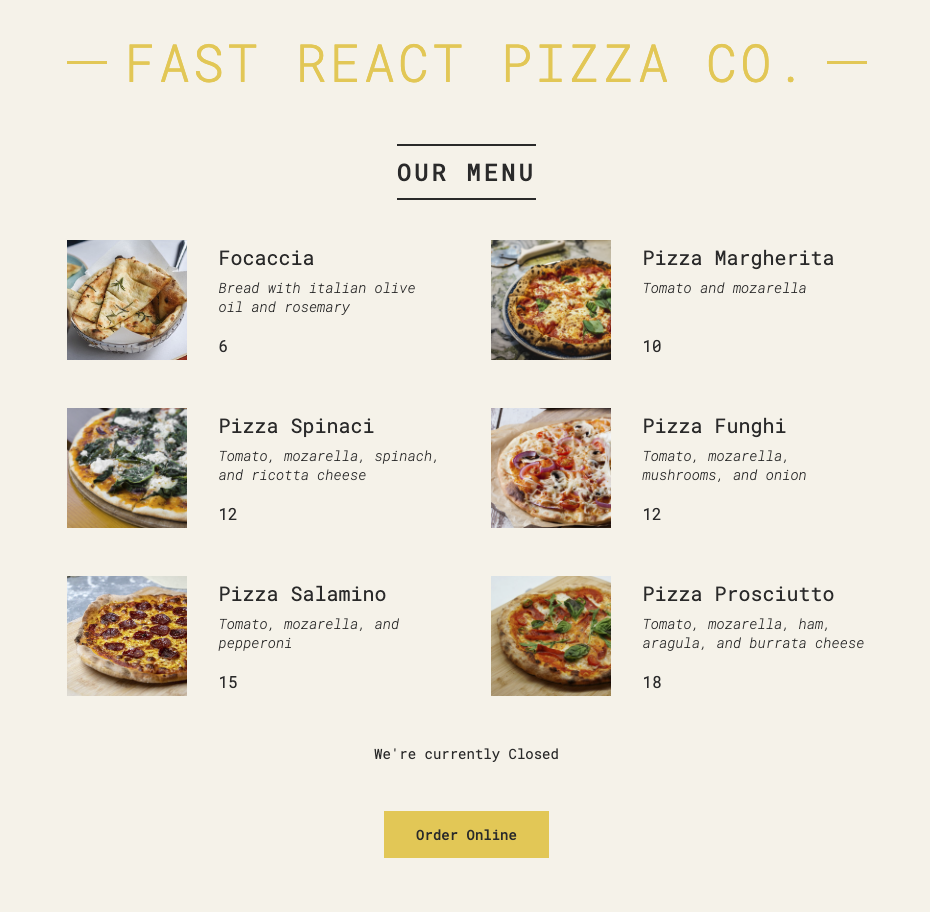
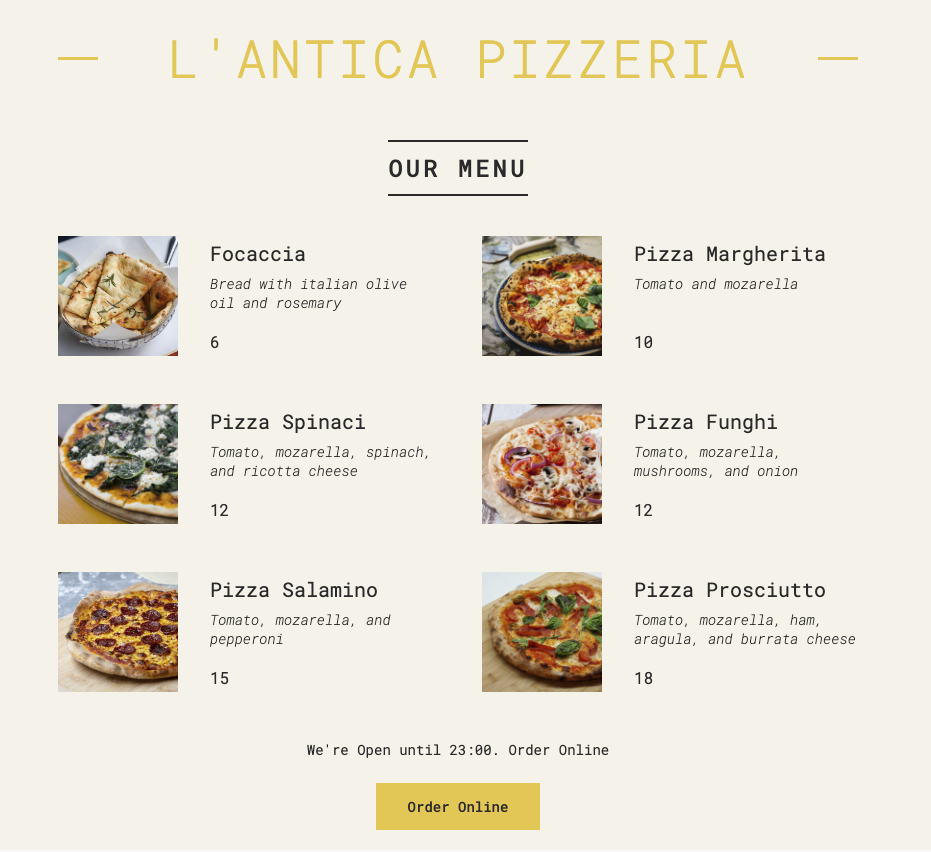
fix: update footer component to display correct opening hours and order online button
The changes in this commit update the Footer component in the client application. The opening hours are corrected to include the closing hour and the condition for displaying the "Order Online" button is fixed. Additionally, the code for rendering the footer is refactored to improve readability and remove duplicate code.

diff --git a/src/components/footer.jsx b/src/components/footer.jsx
@@ -1,13 +1,25 @@
+import "../index.css";
+
 function Footer() {
   const hour = new Date().getHours();
   const openHour = 11;
-  const closeHour = 22;
-  const isOpen = hour >= openHour && hour < closeHour;
+  const closeHour = 23;
+  const isOpen = hour >= openHour && hour <= closeHour;
 
-  if (isOpen) {
-    return <footer className="footer">We're currently Open</footer>;
-  } else {
-    return <footer className="footer">We're currently Closed</footer>;
-  }
+  return (
+    <footer className="footer">
+      {isOpen ? (
+        <div className="order">
+          <p>We're Open until {closeHour}:00. Order Online</p>
+          <button className="btn">Order Online</button>;
+        </div>
+      ) : (
+        <p>
+          We are happy to welcome you between {openHour}:00 and {closeHour}:00
+        </p>
+      )}
+    </footer>
+  );
 }
+
 export default Footer;

diff --git a/src/components/menu.jsx b/src/components/menu.jsx
@@ -49,15 +49,18 @@ const pizzaData = [
 ];
 
 function Menu() {
+  const pizzas = pizzaData;
+
   return (
     <main className="menu">
       <h2>Our Menu</h2>
-
-      <ul className="pizzas">
-        {pizzaData.map((pizza) => (
-          <Pizza pizzaObj={pizza} key={pizza.name} />
-        ))}
-      </ul>
+      {pizzas && (
+        <ul className="pizzas">
+          {pizzaData.map((pizza) => (
+            <Pizza pizzaObj={pizza} key={pizza.name} />
+          ))}
+        </ul>
+      )}
     </main>
   );
 }

diff --git a/src/components/header.jsx b/src/components/header.jsx
@@ -1,11 +1,9 @@
 import "../index.css";
 
 function Header() {
-  const style = {};
-
   return (
     <header className="header">
-      <h1 className="header">Fast React Pizza Co.</h1>
+      <h1 className="header">L'Antica Pizzeria</h1>
     </header>
   );
 }

diff --git a/src/index.js b/src/index.js
@@ -11,7 +11,6 @@ function App() {
       <Header />
       <Menu />
       <Footer />
-      <button className="btn">Order Online</button>
     </div>
   );
 }
